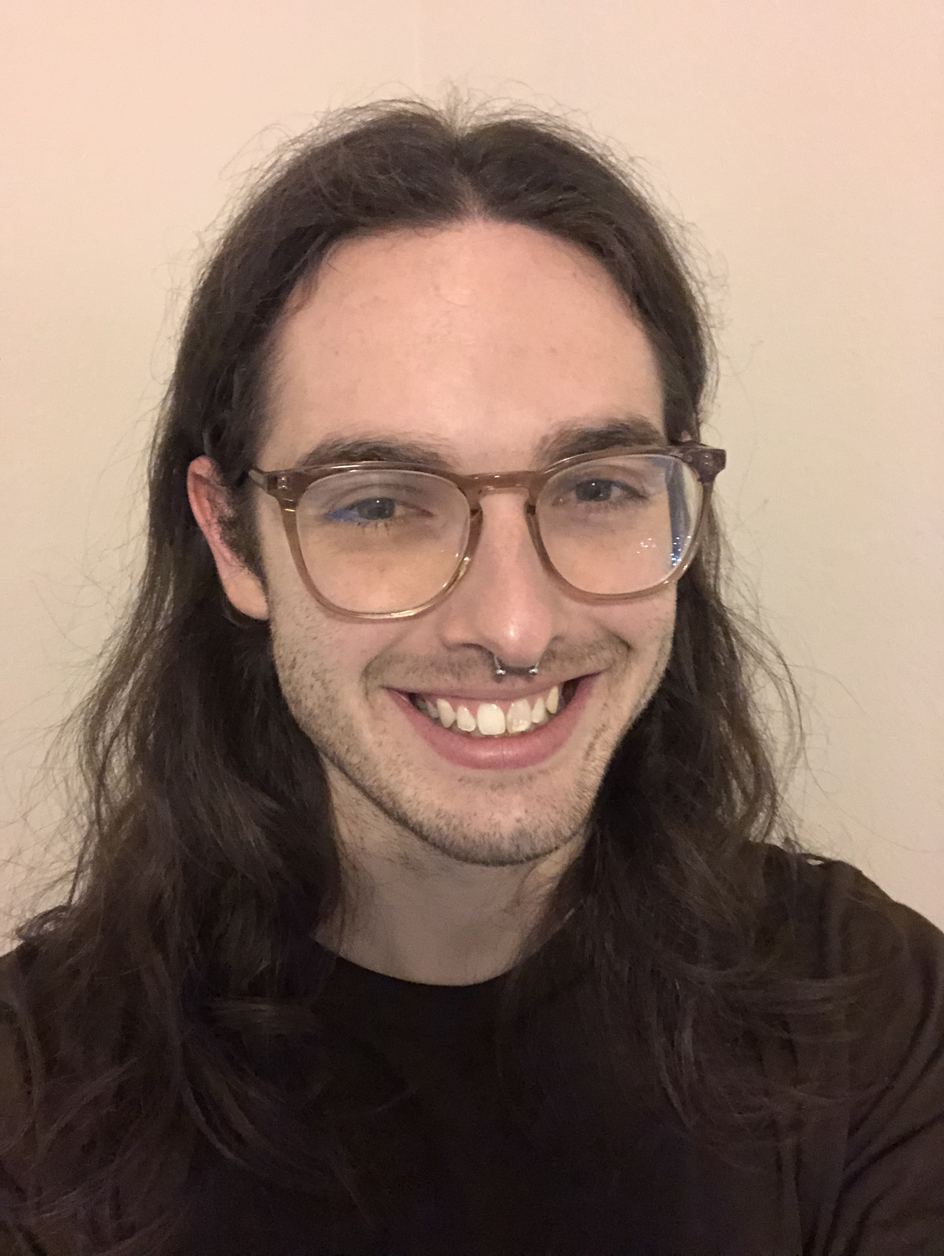
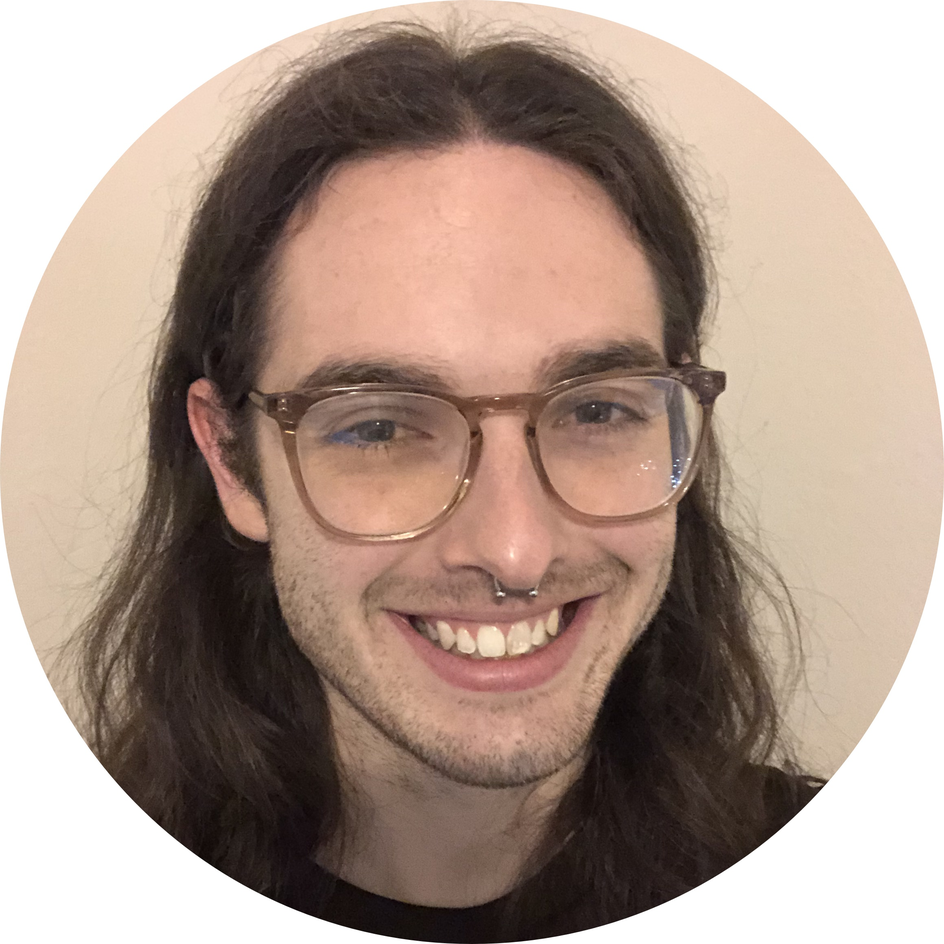
Photo and about page update

diff --git a/about.php b/about.php
@@ -80,17 +80,6 @@
 								</header>
 
 								<div class ="row">
-								<h2 class ="about-social-label">The Cover:</h2>
-									<ul class="icons">
-										<li><a href="https://twitter.com/CoverBookBlog" target ="_blank" class="icon brands fa-twitter about-socials about-socials-left"><span class="label">Twitter</span></a></li>
-										<li><a href="https://www.facebook.com/" target ="_blank" class="icon brands fa-facebook-f about-socials"><span class="label">Facebook</span></a></li>
-										<li><a href="https://www.instagram.com/thecoverbookblog/" target ="_blank" class="icon brands fa-instagram about-socials"><span class="label">Instagram</span></a></li>
-										<li><a href="https://www.goodreads.com/review/list/127761504-cameron-smith?ref=nav_mybooks&shelf=read#" target ="_blank" class="fa-brands fa-goodreads-g about-socials"><span class="label">Goodreads</span></a></li>
-										<li><a href="contact.php" target ="_blank" class="icon solid fa-envelope about-socials"><span class="label">Email</span></a></li>
-									</ul>
-								</div>
-
-								<div class ="row">
 								<h2 class ="about-social-label-personal about-social-label">Personal:</h2>
 									<ul class="icons">
 										<li><a href="https://twitter.com/Crameyon" target ="_blank" class="icon brands fa-twitter about-socials about-socials-left"><span class="label">Twitter</span></a></li>
